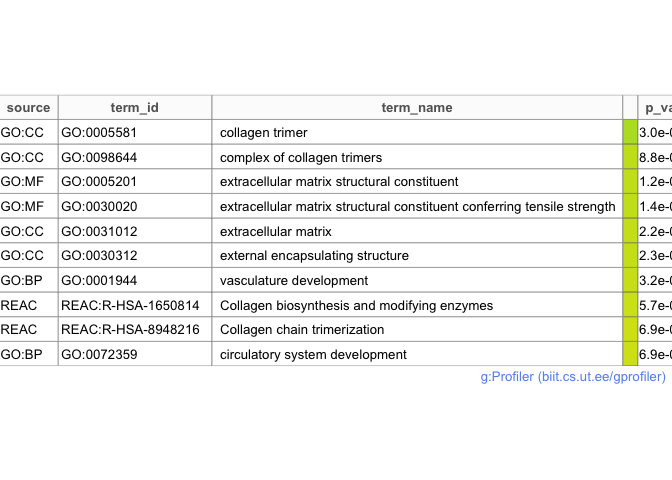
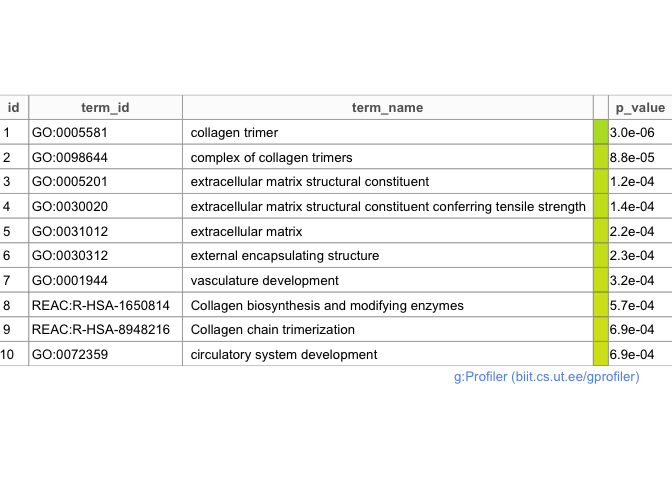
updates

diff --git a/Network-basedDA.md b/Network-basedDA.md
@@ -13,8 +13,7 @@ Network-based Data Analysis Project
   - [Random Forests (week 5)](#random-forests-week-5)
   - [Linear Discriminant Analysis (week
     6)](#linear-discriminant-analysis-week-6)
-  - [Lasso and Ridge regression (week
-    7)](#lasso-and-ridge-regression-week-7)
+  - [Lasso regression (week 7)](#lasso-regression-week-7)
   - [Scudo (week 8)](#scudo-week-8)
   - [Models comparison](#models-comparison)
   - [Feature selection](#feature-selection)
@@ -145,11 +144,6 @@ dim(filter_data)
 ```
 
     ## [1] 53488    68
-
-``` r
-# boxplot(filter_data, main = "Boxplot", xlab = "Samples", ylab = "Counts",
-#         xaxt = "n", col = my_colors[7])
-```
 
 ## Normalization
 
@@ -304,6 +298,8 @@ patients (normal and tumor). The results are plotted with a pca for a
 better visualization.
 
 ``` r
+set.seed(1)
+
 ## Compute K-means clusters
 
 K=2
@@ -500,7 +496,6 @@ acc_rf <- mean(pred_rf==info_samples$Group)
 # table(pred_rf, yTest)
 
 ## AUC from ROC curve
-# roc_rf <- roc(yTrain, rf$votes[,2])
 prob_rf <- predict(rf, t(test_data), type = "prob")
 roc_rf <- roc(yTest, prob_rf$normal)
 # plot(roc_rf)
@@ -558,7 +553,7 @@ auc_lda <- auc(roc_lda)
 res_df["LDA"] <- c(acc_lda, auc_lda)
 ```
 
-# Lasso and Ridge regression (week 7)
+# Lasso regression (week 7)
 
 ``` r
 set.seed(1)
@@ -600,6 +595,7 @@ compared and a map is constructed, where clusters can be seen if they
 are colsely connected.
 
 ``` r
+set.seed(1)
 ## Apply SCUDO on the training set
 
 scudo_train <- scudoTrain(train_data, groups = yTrain,
@@ -669,28 +665,15 @@ metrics.
 res_plot <- data.frame(Model = rep(colnames(res_df),2),
                        Metric = rep(c("Accuracy", "AUC"), each=ncol(res_df)),
                        Value=c(as.numeric(res_df[1,]), as.numeric(res_df[2,])))
-res_plot
-```
+res_plot["Labels"] <- sprintf("%.2f", res_plot$Value)
+# res_plot
 
-    ##           Model   Metric     Value
-    ## 1        Kmeans Accuracy 0.1470588
-    ## 2  Hierarchical Accuracy 0.7647059
-    ## 3  RandomForest Accuracy 0.9705882
-    ## 4           LDA Accuracy 0.9500000
-    ## 5         Lasso Accuracy 0.9500000
-    ## 6         Scudo Accuracy 0.9000000
-    ## 7        Kmeans      AUC 0.8642857
-    ## 8  Hierarchical      AUC 0.7897727
-    ## 9  RandomForest      AUC 0.9800000
-    ## 10          LDA      AUC 0.9545455
-    ## 11        Lasso      AUC 0.9545455
-    ## 12        Scudo      AUC 0.8800000
-
-``` r
 ggplot(res_plot, aes(x=Model, y=Value, fill=Metric))+
-  geom_bar(stat="identity", position="dodge", width=0.5)+
+  geom_bar(stat="identity", position="dodge", width=0.7)+
   scale_fill_manual(values = c(my_colors[c(4,6)]))+
-  ggtitle("Models evaluation")
+  ggtitle("Models evaluation")+
+  geom_text(aes(label=Labels), vjust=1.6, color="white",
+            position = position_dodge(0.7), size=3.5)
 ```
 
 ![](Network-basedDA_files/figure-gfm/res-1.png)<!-- -->
@@ -729,19 +712,14 @@ head(imp)
 imp25 <- imp$gene[1:25]
 imp25_data <- clean_data[is.element(rownames(clean_data), imp25),]
 
-div <- c("#2e005d", "#662a71", "#945789", "#bc87a5", "#debbc8", 
-        "#fcf1f3", "#ffd2d8", "#ffb2b4", "#ff9486", "#ff7852", "#ff6200")
-# hmcol <- rev(colorRampPalette(brewer.pal(11,"RdBu"))(256))
 hmcol <- viridis(1000, option="mako")
-# colnames(imp25_data) <- korTable$Group # This will label the heatmap columns
 csc <- rep(my_colors[3],ncol(imp25_data))
 csc[info_samples$Group=='tumor'] <- my_colors[5]
-# column side color will be purple for T and orange for B
 imp25_data <- as.matrix(imp25_data)
 heatmap(imp25_data, scale="row", col=hmcol, ColSideColors=csc,
         # main = "25 most important genes", 
         labCol = FALSE)
-legend(x=0.72, y=1, legend=c("normal", "tumor"), fill=my_colors[c(3,5)])
+legend(x=0.78, y=1.07, legend=c("normal", "tumor"), fill=my_colors[c(3,5)])
 ```
 
 ![](Network-basedDA_files/figure-gfm/heatmap-1.png)<!-- -->
@@ -781,7 +759,7 @@ publish_gostplot(p, filename = NULL)
 ``` r
 publish_gosttable(gost_res, highlight_terms = gost_df$term_id[1:10],
                   use_colors = TRUE, filename = NULL,
-                  show_columns = c("source","term_id", "term_name", "p_value"))
+                  show_columns = c("term_id", "term_name", "p_value"))
 ```
 
 ![](Network-basedDA_files/figure-gfm/functional-2.png)<!-- -->
@@ -821,70 +799,8 @@ net_KEGG <- run_pathfindR(geneList_tt[c("SYMBOL", "p.value")],
                           iterations = 1, # keeps running time low - default is 10
                           gene_sets = "KEGG", 
                           visualize_enriched_terms = FALSE,
-                          # output_dir = NULL,
                           silent_option = FALSE)
-```
 
-    ##   |                                                                              |                                                                      |   0%  |                                                                              |.......................                                               |  33%
-    ##    inline R code fragments
-    ## 
-    ##   |                                                                              |...............................................                       |  67%
-    ## label: setup (with options) 
-    ## List of 1
-    ##  $ include: logi FALSE
-    ## 
-    ##   |                                                                              |......................................................................| 100%
-    ##   ordinary text without R code
-    ## 
-    ## 
-    ## /Applications/RStudio.app/Contents/MacOS/pandoc/pandoc +RTS -K512m -RTS results.knit.md --to html4 --from markdown+autolink_bare_uris+tex_math_single_backslash --output pandoc56a11d560b6.html --lua-filter /Library/Frameworks/R.framework/Versions/4.1/Resources/library/rmarkdown/rmarkdown/lua/pagebreak.lua --lua-filter /Library/Frameworks/R.framework/Versions/4.1/Resources/library/rmarkdown/rmarkdown/lua/latex-div.lua --self-contained --variable bs3=TRUE --standalone --section-divs --template /Library/Frameworks/R.framework/Versions/4.1/Resources/library/rmarkdown/rmd/h/default.html --no-highlight --variable highlightjs=1 --variable theme=bootstrap --mathjax --variable 'mathjax-url=https://mathjax.rstudio.com/latest/MathJax.js?config=TeX-AMS-MML_HTMLorMML' --include-in-header /var/folders/qz/jphp3gs14hld_63jr0vtf7400000gn/T//RtmpMuWKvG/rmarkdown-str56a5afedae6.html 
-    ##   |                                                                              |                                                                      |   0%  |                                                                              |..................                                                    |  25%
-    ##    inline R code fragments
-    ## 
-    ##   |                                                                              |...................................                                   |  50%
-    ## label: setup (with options) 
-    ## List of 1
-    ##  $ include: logi FALSE
-    ## 
-    ##   |                                                                              |....................................................                  |  75%
-    ##   ordinary text without R code
-    ## 
-    ##   |                                                                              |......................................................................| 100%
-    ## label: table (with options) 
-    ## List of 2
-    ##  $ echo   : logi FALSE
-    ##  $ comment: logi NA
-    ## 
-    ## 
-    ## /Applications/RStudio.app/Contents/MacOS/pandoc/pandoc +RTS -K512m -RTS enriched_terms.knit.md --to html4 --from markdown+autolink_bare_uris+tex_math_single_backslash --output pandoc56a12664f1b.html --lua-filter /Library/Frameworks/R.framework/Versions/4.1/Resources/library/rmarkdown/rmarkdown/lua/pagebreak.lua --lua-filter /Library/Frameworks/R.framework/Versions/4.1/Resources/library/rmarkdown/rmarkdown/lua/latex-div.lua --self-contained --variable bs3=TRUE --standalone --section-divs --template /Library/Frameworks/R.framework/Versions/4.1/Resources/library/rmarkdown/rmd/h/default.html --no-highlight --variable highlightjs=1 --variable theme=bootstrap --mathjax --variable 'mathjax-url=https://mathjax.rstudio.com/latest/MathJax.js?config=TeX-AMS-MML_HTMLorMML' --include-in-header /var/folders/qz/jphp3gs14hld_63jr0vtf7400000gn/T//RtmpMuWKvG/rmarkdown-str56a6a6ce1f3.html 
-    ##   |                                                                              |                                                                      |   0%  |                                                                              |............                                                          |  17%
-    ##    inline R code fragments
-    ## 
-    ##   |                                                                              |.......................                                               |  33%
-    ## label: setup (with options) 
-    ## List of 1
-    ##  $ include: logi FALSE
-    ## 
-    ##   |                                                                              |...................................                                   |  50%
-    ##   ordinary text without R code
-    ## 
-    ##   |                                                                              |...............................................                       |  67%
-    ## label: converted_tbl, table1 (with options) 
-    ## List of 1
-    ##  $ comment: logi NA
-    ## 
-    ##   |                                                                              |..........................................................            |  83%
-    ##   ordinary text without R code
-    ## 
-    ##   |                                                                              |......................................................................| 100%
-    ## label: gene_wo_interaction, table2 (with options) 
-    ## List of 1
-    ##  $ comment: logi NA
-    ## 
-    ## 
-    ## /Applications/RStudio.app/Contents/MacOS/pandoc/pandoc +RTS -K512m -RTS conversion_table.knit.md --to html4 --from markdown+autolink_bare_uris+tex_math_single_backslash --output pandoc56a5478f847.html --lua-filter /Library/Frameworks/R.framework/Versions/4.1/Resources/library/rmarkdown/rmarkdown/lua/pagebreak.lua --lua-filter /Library/Frameworks/R.framework/Versions/4.1/Resources/library/rmarkdown/rmarkdown/lua/latex-div.lua --self-contained --variable bs3=TRUE --standalone --section-divs --template /Library/Frameworks/R.framework/Versions/4.1/Resources/library/rmarkdown/rmd/h/default.html --no-highlight --variable highlightjs=1 --variable theme=bootstrap --mathjax --variable 'mathjax-url=https://mathjax.rstudio.com/latest/MathJax.js?config=TeX-AMS-MML_HTMLorMML' --include-in-header /var/folders/qz/jphp3gs14hld_63jr0vtf7400000gn/T//RtmpMuWKvG/rmarkdown-str56a6505a0b1.html
-
-``` r
 # ## cluster enriched terms
 # patR_clu <- cluster_enriched_terms(patR_res)
 # ## term-gene graph of top 10 terms
@@ -894,142 +810,20 @@ net_GO <- run_pathfindR(geneList_tt[c("SYMBOL", "p.value")],
                           iterations = 1, # keeps running time low - default is 10
                           gene_sets = "GO-All", 
                           visualize_enriched_terms = FALSE,
-                          # output_dir = NULL,
                           silent_option = FALSE)
 ```
 
 ![](Network-basedDA_files/figure-gfm/net-1.png)<!-- -->
-
-    ##   |                                                                              |                                                                      |   0%  |                                                                              |.......................                                               |  33%
-    ##    inline R code fragments
-    ## 
-    ##   |                                                                              |...............................................                       |  67%
-    ## label: setup (with options) 
-    ## List of 1
-    ##  $ include: logi FALSE
-    ## 
-    ##   |                                                                              |......................................................................| 100%
-    ##   ordinary text without R code
-    ## 
-    ## 
-    ## /Applications/RStudio.app/Contents/MacOS/pandoc/pandoc +RTS -K512m -RTS results.knit.md --to html4 --from markdown+autolink_bare_uris+tex_math_single_backslash --output pandoc56a3bef1969.html --lua-filter /Library/Frameworks/R.framework/Versions/4.1/Resources/library/rmarkdown/rmarkdown/lua/pagebreak.lua --lua-filter /Library/Frameworks/R.framework/Versions/4.1/Resources/library/rmarkdown/rmarkdown/lua/latex-div.lua --self-contained --variable bs3=TRUE --standalone --section-divs --template /Library/Frameworks/R.framework/Versions/4.1/Resources/library/rmarkdown/rmd/h/default.html --no-highlight --variable highlightjs=1 --variable theme=bootstrap --mathjax --variable 'mathjax-url=https://mathjax.rstudio.com/latest/MathJax.js?config=TeX-AMS-MML_HTMLorMML' --include-in-header /var/folders/qz/jphp3gs14hld_63jr0vtf7400000gn/T//RtmpMuWKvG/rmarkdown-str56a74985104.html 
-    ##   |                                                                              |                                                                      |   0%  |                                                                              |..................                                                    |  25%
-    ##    inline R code fragments
-    ## 
-    ##   |                                                                              |...................................                                   |  50%
-    ## label: setup (with options) 
-    ## List of 1
-    ##  $ include: logi FALSE
-    ## 
-    ##   |                                                                              |....................................................                  |  75%
-    ##   ordinary text without R code
-    ## 
-    ##   |                                                                              |......................................................................| 100%
-    ## label: table (with options) 
-    ## List of 2
-    ##  $ echo   : logi FALSE
-    ##  $ comment: logi NA
-    ## 
-    ## 
-    ## /Applications/RStudio.app/Contents/MacOS/pandoc/pandoc +RTS -K512m -RTS enriched_terms.knit.md --to html4 --from markdown+autolink_bare_uris+tex_math_single_backslash --output pandoc56a67253489.html --lua-filter /Library/Frameworks/R.framework/Versions/4.1/Resources/library/rmarkdown/rmarkdown/lua/pagebreak.lua --lua-filter /Library/Frameworks/R.framework/Versions/4.1/Resources/library/rmarkdown/rmarkdown/lua/latex-div.lua --self-contained --variable bs3=TRUE --standalone --section-divs --template /Library/Frameworks/R.framework/Versions/4.1/Resources/library/rmarkdown/rmd/h/default.html --no-highlight --variable highlightjs=1 --variable theme=bootstrap --mathjax --variable 'mathjax-url=https://mathjax.rstudio.com/latest/MathJax.js?config=TeX-AMS-MML_HTMLorMML' --include-in-header /var/folders/qz/jphp3gs14hld_63jr0vtf7400000gn/T//RtmpMuWKvG/rmarkdown-str56a2a1769d5.html 
-    ##   |                                                                              |                                                                      |   0%  |                                                                              |............                                                          |  17%
-    ##    inline R code fragments
-    ## 
-    ##   |                                                                              |.......................                                               |  33%
-    ## label: setup (with options) 
-    ## List of 1
-    ##  $ include: logi FALSE
-    ## 
-    ##   |                                                                              |...................................                                   |  50%
-    ##   ordinary text without R code
-    ## 
-    ##   |                                                                              |...............................................                       |  67%
-    ## label: converted_tbl, table1 (with options) 
-    ## List of 1
-    ##  $ comment: logi NA
-    ## 
-    ##   |                                                                              |..........................................................            |  83%
-    ##   ordinary text without R code
-    ## 
-    ##   |                                                                              |......................................................................| 100%
-    ## label: gene_wo_interaction, table2 (with options) 
-    ## List of 1
-    ##  $ comment: logi NA
-    ## 
-    ## 
-    ## /Applications/RStudio.app/Contents/MacOS/pandoc/pandoc +RTS -K512m -RTS conversion_table.knit.md --to html4 --from markdown+autolink_bare_uris+tex_math_single_backslash --output pandoc56a229f7099.html --lua-filter /Library/Frameworks/R.framework/Versions/4.1/Resources/library/rmarkdown/rmarkdown/lua/pagebreak.lua --lua-filter /Library/Frameworks/R.framework/Versions/4.1/Resources/library/rmarkdown/rmarkdown/lua/latex-div.lua --self-contained --variable bs3=TRUE --standalone --section-divs --template /Library/Frameworks/R.framework/Versions/4.1/Resources/library/rmarkdown/rmd/h/default.html --no-highlight --variable highlightjs=1 --variable theme=bootstrap --mathjax --variable 'mathjax-url=https://mathjax.rstudio.com/latest/MathJax.js?config=TeX-AMS-MML_HTMLorMML' --include-in-header /var/folders/qz/jphp3gs14hld_63jr0vtf7400000gn/T//RtmpMuWKvG/rmarkdown-str56a8bccab2.html
 
 ``` r
 net_Reactome <- run_pathfindR(geneList_tt[c("SYMBOL", "p.value")],
                           iterations = 1, # keeps running time low - default is 10
                           gene_sets = "Reactome", 
                           visualize_enriched_terms = FALSE,
-                          # output_dir = NULL,
                           silent_option = FALSE)
 ```
 
-![](Network-basedDA_files/figure-gfm/net-2.png)<!-- -->
-
-    ##   |                                                                              |                                                                      |   0%  |                                                                              |.......................                                               |  33%
-    ##    inline R code fragments
-    ## 
-    ##   |                                                                              |...............................................                       |  67%
-    ## label: setup (with options) 
-    ## List of 1
-    ##  $ include: logi FALSE
-    ## 
-    ##   |                                                                              |......................................................................| 100%
-    ##   ordinary text without R code
-    ## 
-    ## 
-    ## /Applications/RStudio.app/Contents/MacOS/pandoc/pandoc +RTS -K512m -RTS results.knit.md --to html4 --from markdown+autolink_bare_uris+tex_math_single_backslash --output pandoc56a705580d7.html --lua-filter /Library/Frameworks/R.framework/Versions/4.1/Resources/library/rmarkdown/rmarkdown/lua/pagebreak.lua --lua-filter /Library/Frameworks/R.framework/Versions/4.1/Resources/library/rmarkdown/rmarkdown/lua/latex-div.lua --self-contained --variable bs3=TRUE --standalone --section-divs --template /Library/Frameworks/R.framework/Versions/4.1/Resources/library/rmarkdown/rmd/h/default.html --no-highlight --variable highlightjs=1 --variable theme=bootstrap --mathjax --variable 'mathjax-url=https://mathjax.rstudio.com/latest/MathJax.js?config=TeX-AMS-MML_HTMLorMML' --include-in-header /var/folders/qz/jphp3gs14hld_63jr0vtf7400000gn/T//RtmpMuWKvG/rmarkdown-str56a6c0f8a9d.html 
-    ##   |                                                                              |                                                                      |   0%  |                                                                              |..................                                                    |  25%
-    ##    inline R code fragments
-    ## 
-    ##   |                                                                              |...................................                                   |  50%
-    ## label: setup (with options) 
-    ## List of 1
-    ##  $ include: logi FALSE
-    ## 
-    ##   |                                                                              |....................................................                  |  75%
-    ##   ordinary text without R code
-    ## 
-    ##   |                                                                              |......................................................................| 100%
-    ## label: table (with options) 
-    ## List of 2
-    ##  $ echo   : logi FALSE
-    ##  $ comment: logi NA
-    ## 
-    ## 
-    ## /Applications/RStudio.app/Contents/MacOS/pandoc/pandoc +RTS -K512m -RTS enriched_terms.knit.md --to html4 --from markdown+autolink_bare_uris+tex_math_single_backslash --output pandoc56a7199d93c.html --lua-filter /Library/Frameworks/R.framework/Versions/4.1/Resources/library/rmarkdown/rmarkdown/lua/pagebreak.lua --lua-filter /Library/Frameworks/R.framework/Versions/4.1/Resources/library/rmarkdown/rmarkdown/lua/latex-div.lua --self-contained --variable bs3=TRUE --standalone --section-divs --template /Library/Frameworks/R.framework/Versions/4.1/Resources/library/rmarkdown/rmd/h/default.html --no-highlight --variable highlightjs=1 --variable theme=bootstrap --mathjax --variable 'mathjax-url=https://mathjax.rstudio.com/latest/MathJax.js?config=TeX-AMS-MML_HTMLorMML' --include-in-header /var/folders/qz/jphp3gs14hld_63jr0vtf7400000gn/T//RtmpMuWKvG/rmarkdown-str56a399cfcd0.html 
-    ##   |                                                                              |                                                                      |   0%  |                                                                              |............                                                          |  17%
-    ##    inline R code fragments
-    ## 
-    ##   |                                                                              |.......................                                               |  33%
-    ## label: setup (with options) 
-    ## List of 1
-    ##  $ include: logi FALSE
-    ## 
-    ##   |                                                                              |...................................                                   |  50%
-    ##   ordinary text without R code
-    ## 
-    ##   |                                                                              |...............................................                       |  67%
-    ## label: converted_tbl, table1 (with options) 
-    ## List of 1
-    ##  $ comment: logi NA
-    ## 
-    ##   |                                                                              |..........................................................            |  83%
-    ##   ordinary text without R code
-    ## 
-    ##   |                                                                              |......................................................................| 100%
-    ## label: gene_wo_interaction, table2 (with options) 
-    ## List of 1
-    ##  $ comment: logi NA
-    ## 
-    ## 
-    ## /Applications/RStudio.app/Contents/MacOS/pandoc/pandoc +RTS -K512m -RTS conversion_table.knit.md --to html4 --from markdown+autolink_bare_uris+tex_math_single_backslash --output pandoc56a6b6c0fa2.html --lua-filter /Library/Frameworks/R.framework/Versions/4.1/Resources/library/rmarkdown/rmarkdown/lua/pagebreak.lua --lua-filter /Library/Frameworks/R.framework/Versions/4.1/Resources/library/rmarkdown/rmarkdown/lua/latex-div.lua --self-contained --variable bs3=TRUE --standalone --section-divs --template /Library/Frameworks/R.framework/Versions/4.1/Resources/library/rmarkdown/rmd/h/default.html --no-highlight --variable highlightjs=1 --variable theme=bootstrap --mathjax --variable 'mathjax-url=https://mathjax.rstudio.com/latest/MathJax.js?config=TeX-AMS-MML_HTMLorMML' --include-in-header /var/folders/qz/jphp3gs14hld_63jr0vtf7400000gn/T//RtmpMuWKvG/rmarkdown-str56a3cf2d8a0.html
-
-![](Network-basedDA_files/figure-gfm/net-3.png)<!-- -->
+![](Network-basedDA_files/figure-gfm/net-2.png)<!-- -->![](Network-basedDA_files/figure-gfm/net-3.png)<!-- -->
 
 ``` r
 enrichment_chart(net_KEGG)
